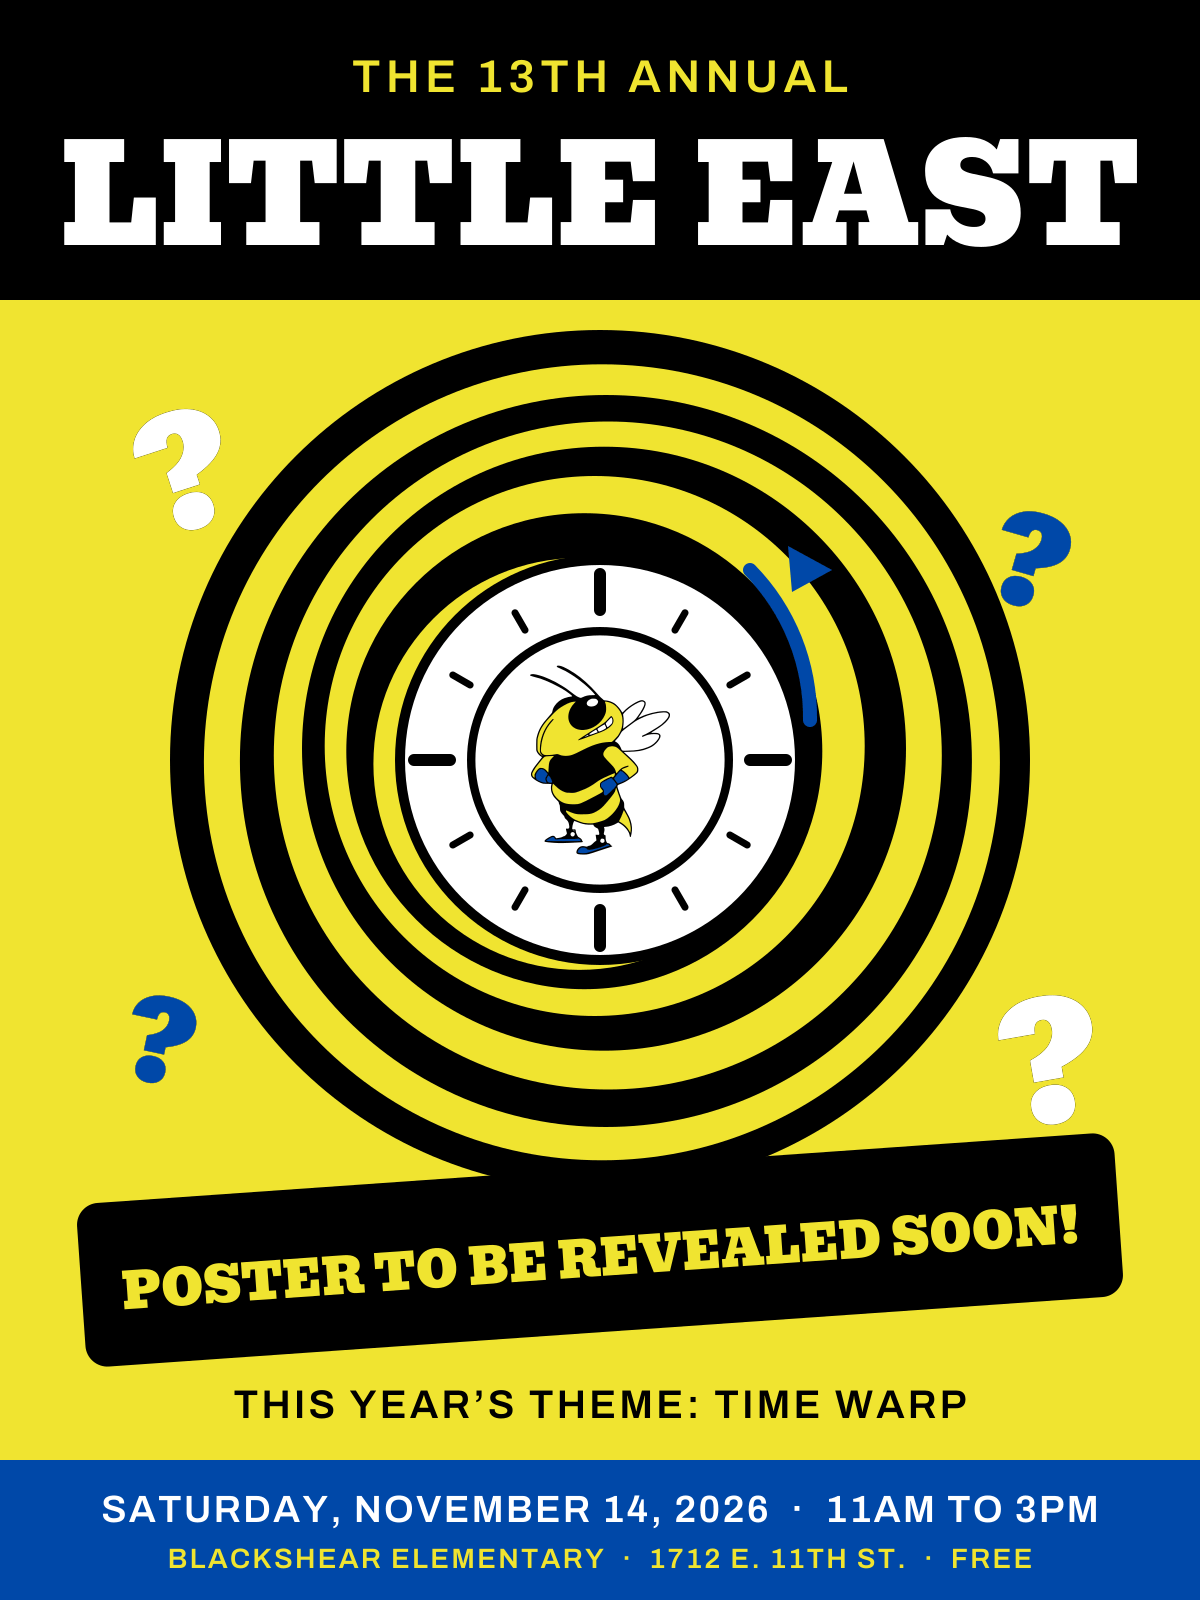
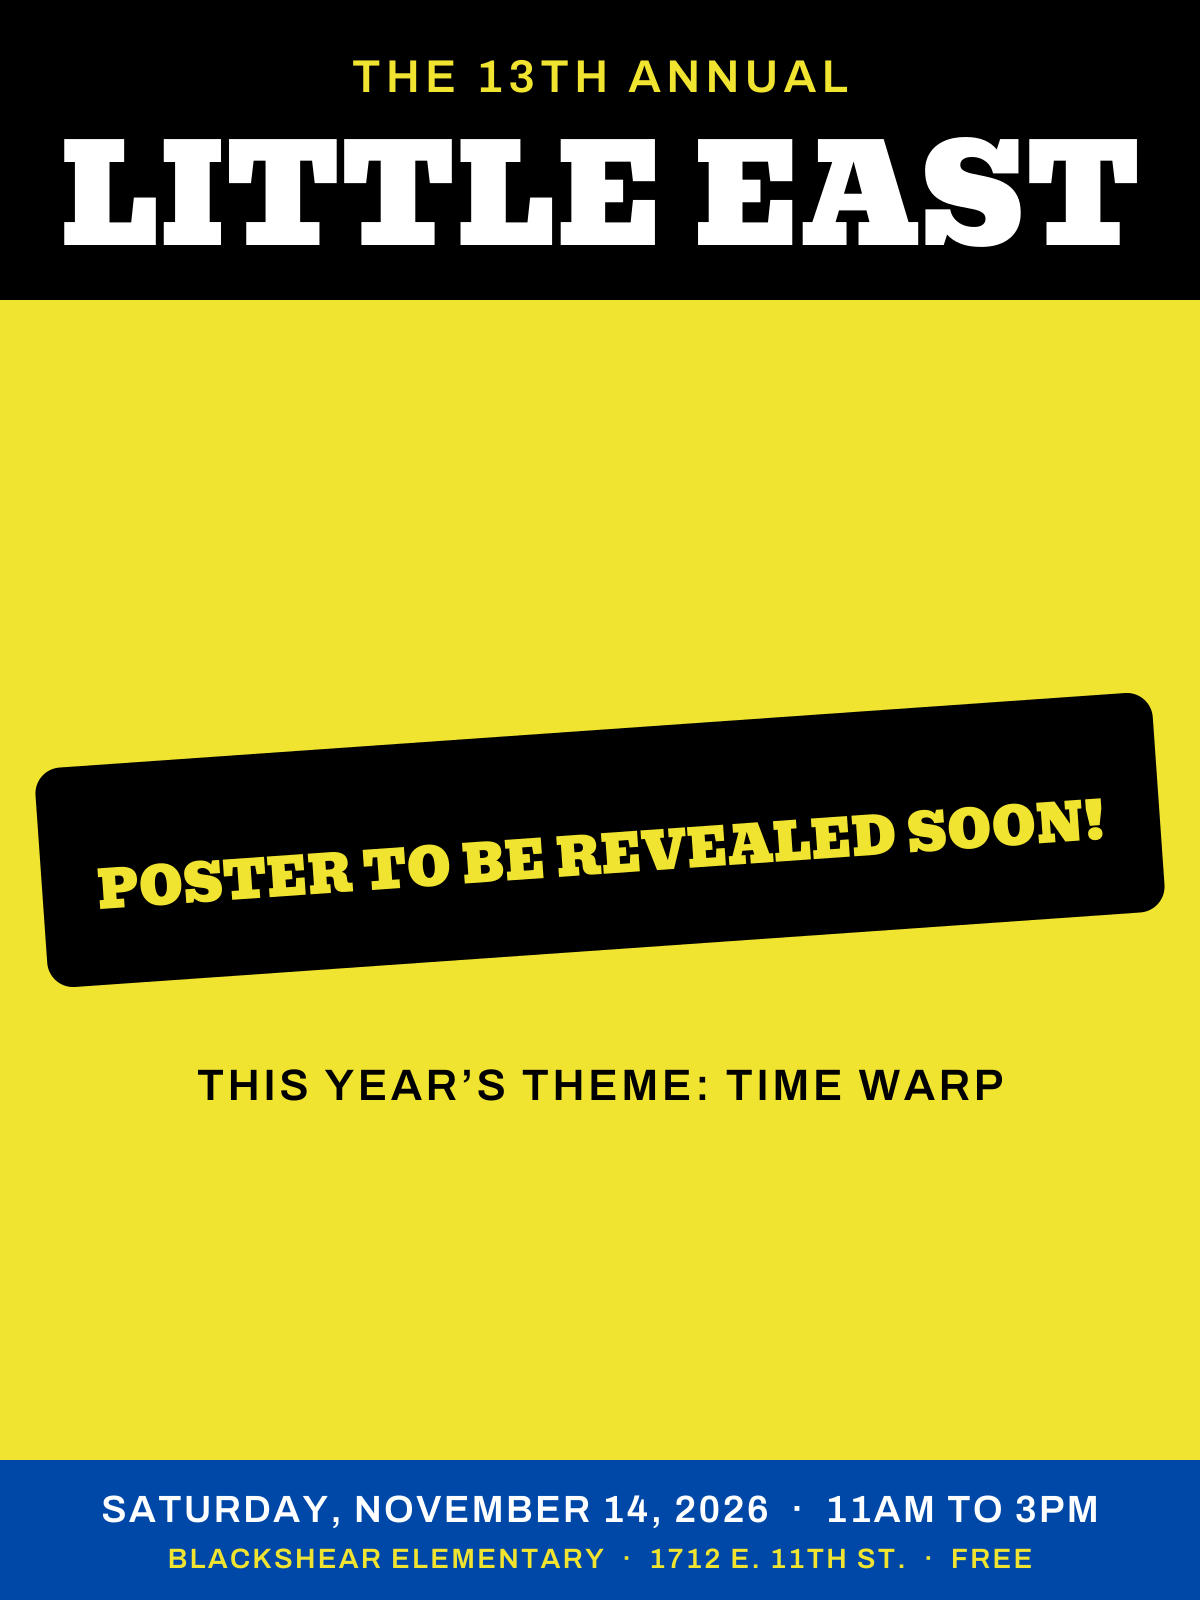
Little EAST: a plainer stand-in poster, and no Join the PTA button
Jon, 2026-10-23: the poster keeps the black band, theme and date, with
'Poster to be revealed soon!' across the middle on a slightly canted strip,
and drops the clock, Buzz, rings and question marks. The page's Join the PTA
button goes: it did not fit a page about the event.

Task list: the Linktree now belongs to hello@ (emailed-link sign-in), and its
website button points at blackshearpta.org; Weekly Buzz follows once the
posts are live (A51, A38).

diff --git a/TASKS.md b/TASKS.md
@@ -435,7 +435,7 @@
      - **Signed in with Google as the PTA Gmail:** Zoom, Trello and FormsApp.
      - **Old or one-off, nothing to do:** a Microsoft account (2017), Wix, a Justuno trial, US Games and an EPI customer portal.
      - Animoto, TinyURL and HelloSign show up here too, though the March 2026 board thread put them on the Fundraising Gmail ([B26](#google-workspace-for-nonprofits) step 9). Each service's own account page says which address it uses.
-  3. [ ] For each one that matters, add a second admin, then move the login to a role address. Under Jon's rule the login becomes the admin account's, with the role that uses it as the second user where the service allows ([B5](#google-workspace-for-nonprofits)): `treasurer@` for the money ones, `communications@` for the website and social ones. **`CLAUDE` suggests this order:** money first (Square, PayPal, Zeffy, Amazon Business), then the paid renewals, then Weebly ([A29](#phase-2---real-site)), Instagram and SignUpGenius.
+  3. [ ] For each one that matters, add a second admin, then move the login to a role address. Under Jon's rule the login becomes the admin account's, with the role that uses it as the second user where the service allows ([B5](#google-workspace-for-nonprofits)): `treasurer@` for the money ones, `communications@` for the website and social ones. **`CLAUDE` suggests this order:** money first (Square, PayPal, Zeffy, Amazon Business), then the paid renewals, then Weebly ([A29](#phase-2---real-site)), Instagram and SignUpGenius. **Moved so far:** Linktree, to `hello@` rather than the admin account, which Jon judged the right long-term home for the families' link page (2026-10-23).
   4. [ ] The treasurer confirms the paid renewals are still wanted: Linktree Pro, Suno, TinyURL and Animoto.
   5. [ ] Save the central ones in the password manager ([B33](#google-workspace-for-nonprofits)).
 - [ ] **A39**: A room parent dashboard - `JON` + board + `CLAUDE` - Raised at the exec board meeting 2026-10-06. Needs details from the Room Parent Coordination chair (`roomparents@`) before anything is built.
@@ -577,7 +577,7 @@
 
 - [ ] **A51**: Follow-ups from the old-site sweep - `JON` + board - Small things the 2026-10-23 sweep turned up.
 
-  1. [ ] **Linktree** still points "Blackshear PTA Website" and "Weekly Buzz" at the Weebly site. Jon asks the Fundraising chair, who set it up, to point them at blackshearpta.org and blackshearpta.org/announcements.
+  1. [~] **Linktree** pointed "Blackshear PTA Website" and "Weekly Buzz" at the Weebly site. **2026-10-23:** the Fundraising chair moved the Linktree to `hello@` as its owner, signing in by emailed link only (its vault entry is a note), and pointed "Blackshear PTA Website" at blackshearpta.org (checked). Left: point "Weekly Buzz" at blackshearpta.org/announcements once the Weekly Buzz is live there ([A46](#phase-2---real-site) step 3). Jon asks the Fundraising chair, who set it up, to point them at blackshearpta.org and blackshearpta.org/announcements.
   2. [ ] **2026-2027 sponsor levels:** the old site lists this year's business sponsors without their level. The Fundraising chair says which level each bought, and `CLAUDE` groups them on `/sponsors` the way 2025-2026 is grouped.
   3. [ ] **The Beat** link in Helpful Links opens one issue (2026-10-16). Each new issue needs the link updated, unless the school has a page that always shows the latest.
   4. [ ] **2025-2026 Community Buzz:** the old site showed Figure 8 Coffee's logo linked to MASH Movers there. The new page shows MASH Movers' logo, which matches its name list; the Fundraising chair confirms.
